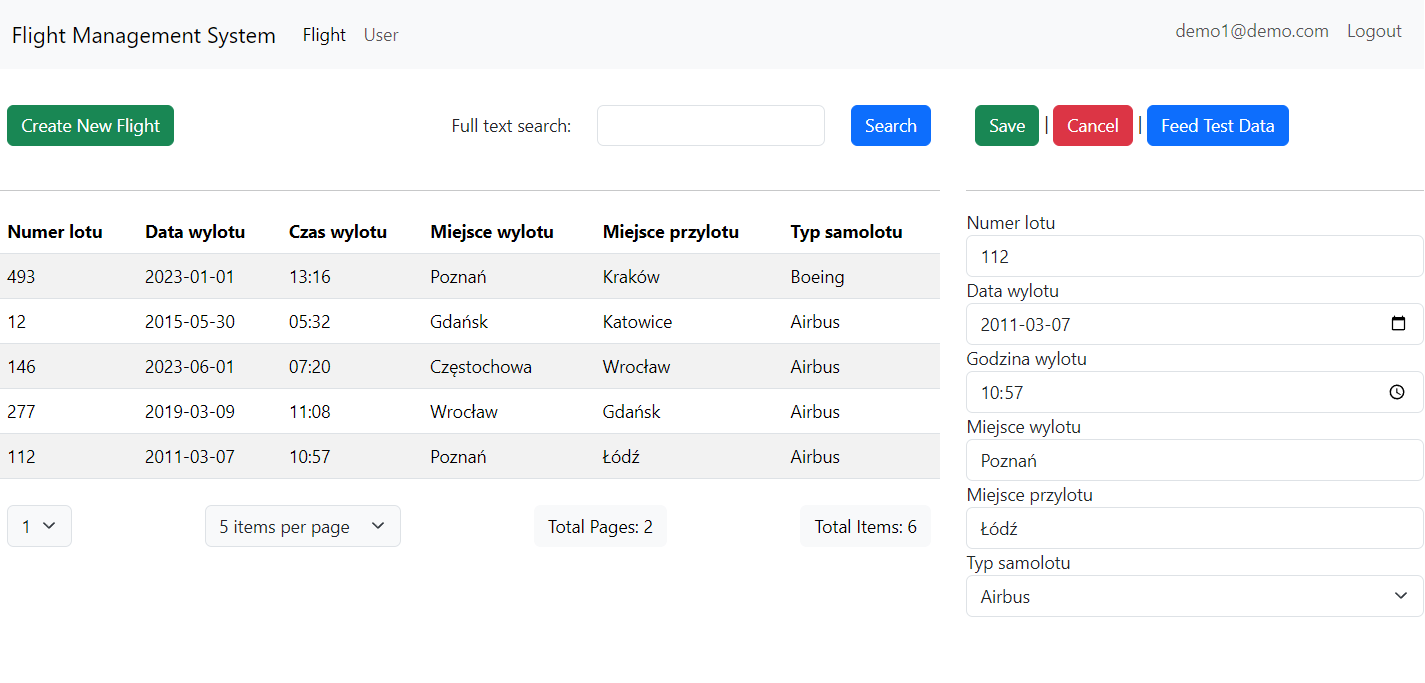
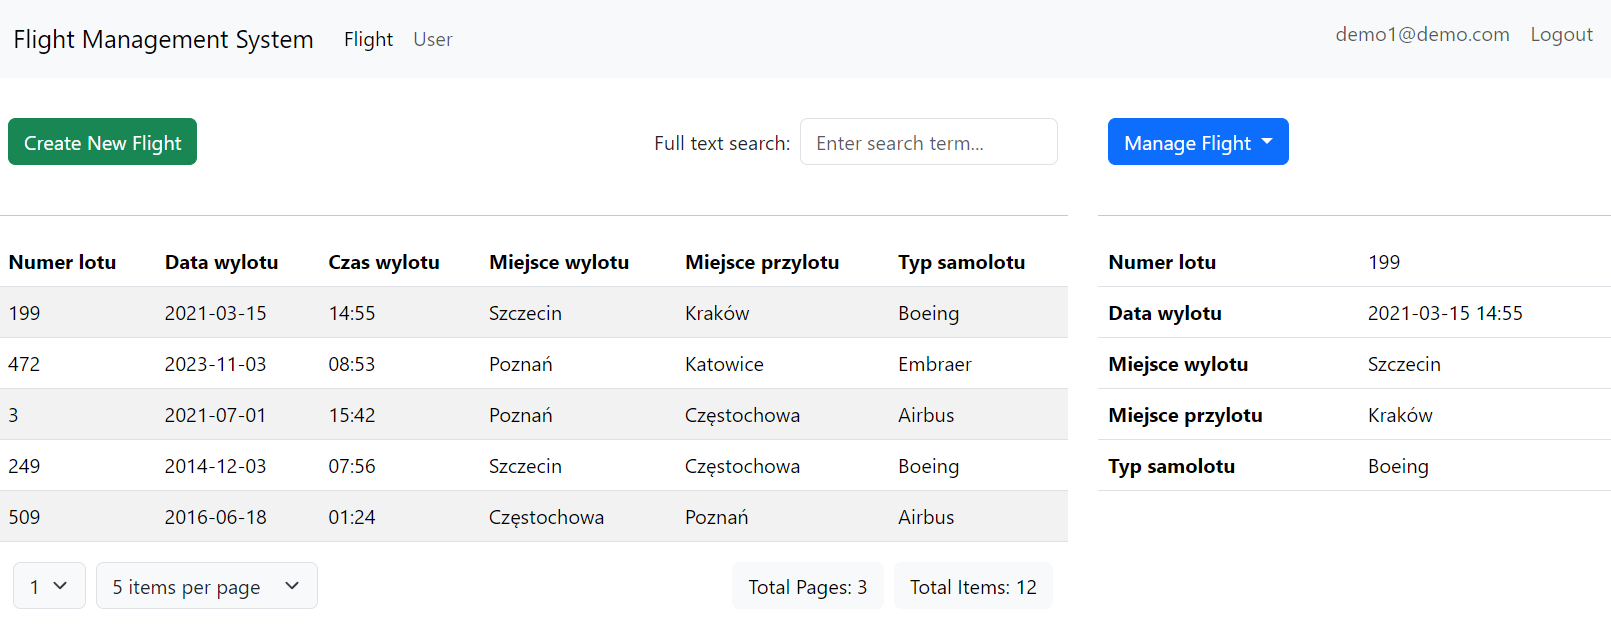
added a bit of responsiveness etc. and fixes

diff --git a/dist/flight-management-system.ui/browser/chunk-UKGET6AS.js b/dist/flight-management-system.ui/browser/chunk-UKGET6AS.js
@@ -1,0 +1,1 @@
+import{$ as k,A as U,B as H,C as G,D as w,E as N,F as A,G as gt,H as I,I as q,J as ft,K as vt,L as _t,Q,R as L,S as j,T as K,U as M,V,W as yt,Y as z,Z as Y,_ as J,a as ct,aa as X,b as lt,ba as St,c as O,ca as at,d as dt,e as pt,ea as b,f as B,fa as xt,g as ht,ga as bt,h as y,ha as Ct,i as $,ia as Ft,j as p,ja as Z,k as h,ka as tt,l as ut,la as et,m,n as g,o as x,p as c,pa as wt,q as o,qa as Et,r,s as v,t as C,u,v as d,x as l,y as _,z as R}from"./chunk-ZW7RAY6D.js";function Wt(i,n){if(i&1){let s=C();o(0,"li",7)(1,"a",11),u("click",function(){p(s);let t=d();return h(t.onDemoLogin())}),l(2,"Demo login"),r()()}}function Pt(i,n){i&1&&(o(0,"li",7)(1,"a",12),l(2,"Login"),r()())}function Nt(i,n){i&1&&(o(0,"li",7)(1,"a",13),l(2,"Sign up"),r()())}function At(i,n){if(i&1&&(o(0,"li",7)(1,"a",14),l(2),r()()),i&2){let s=d();m(2),_(s.email)}}function zt(i,n){if(i&1){let s=C();o(0,"li",7)(1,"a",15),u("click",function(){p(s);let t=d();return h(t.onLogout())}),l(2,"Logout"),r()()}}var It=(()=>{let n=class n{constructor(e,t){this.authService=e,this.router=t,this.isAuthenticated=!0,this.email=null}ngOnInit(){this.userSub=this.authService.token.subscribe(e=>{this.isAuthenticated=!!e,this.isAuthenticated&&(this.email=localStorage.getItem("email"))})}ngOnDestroy(){this.userSub.unsubscribe()}onLogout(){this.authService.logout()}onDemoLogin(){let e="demo1@demo.com",t="demo1",a="demo1@demo.com";this.authService.signup(e,t,a,"demo1@demo.com").subscribe(()=>{this.authService.login(e,a).subscribe(S=>{localStorage.setItem("authToken",S),this.router.navigate(["flight"])},S=>{})},S=>{this.authService.login(e,a).subscribe(D=>{localStorage.setItem("authToken",D),this.router.navigate(["flight"])},D=>{})})}};n.\u0275fac=function(t){return new(t||n)(g(Y),g(M))},n.\u0275cmp=y({type:n,selectors:[["app-header"]],decls:17,vars:5,consts:[[1,"navbar","navbar-expand-lg","bg-body-tertiary"],[1,"container-fluid"],["routerLink","/",1,"navbar-brand"],["type","button","data-bs-toggle","collapse","data-bs-target","#navbarSupportedContent","aria-controls","navbarSupportedContent","aria-expanded","false","aria-label","Toggle navigation",1,"navbar-toggler"],[1,"navbar-toggler-icon"],["id","navbarSupportedContent",1,"collapse","navbar-collapse"],[1,"navbar-nav","me-auto","mb-2","mb-lg-0"],[1,"nav-item"],["routerLinkActive","active","routerLink","/flight",1,"nav-link"],[1,"navbar-nav","mb-2","d-flex"],["class","nav-item",4,"ngIf"],["routerLinkActive","active",1,"nav-link",2,"cursor","pointer",3,"click"],["routerLinkActive","active","routerLink","/login",1,"nav-link"],["routerLinkActive","active","routerLink","/signup",1,"nav-link"],["routerLinkActive","active","routerLink","/account",1,"nav-link"],[1,"nav-link",2,"cursor","pointer",3,"click"]],template:function(t,a){t&1&&(o(0,"nav",0)(1,"div",1)(2,"a",2),l(3,"Flight Management System"),r(),o(4,"button",3),v(5,"span",4),r(),o(6,"div",5)(7,"ul",6)(8,"li",7)(9,"a",8),l(10,"Flight"),r()()(),o(11,"ul",9),x(12,Wt,3,0,"li",10)(13,Pt,3,0,"li",10)(14,Nt,3,0,"li",10)(15,At,3,1,"li",10)(16,zt,3,0,"li",10),r()()()()),t&2&&(m(12),c("ngIf",!a.isAuthenticated),m(),c("ngIf",!a.isAuthenticated),m(),c("ngIf",!a.isAuthenticated),m(),c("ngIf",a.isAuthenticated),m(),c("ngIf",a.isAuthenticated))},dependencies:[I,V,yt]});let i=n;return i})();var le=(()=>{let n=class n{constructor(e){this.authService=e,this.title="FlightManagementSystem.UI"}ngOnInit(){this.authService.autoLogin()}};n.\u0275fac=function(t){return new(t||n)(g(Y))},n.\u0275cmp=y({type:n,selectors:[["app-root"]],decls:3,vars:0,consts:[[1,"container"]],template:function(t,a){t&1&&(o(0,"div",0),v(1,"app-header")(2,"router-outlet"),r())},dependencies:[K,It]});let i=n;return i})(),E=function(i){return i[i.ASC=0]="ASC",i[i.DESC=1]="DESC",i}(E||{});var T=(()=>{let n=class n{notifyOther(e){e&&this.notify.next(e)}constructor(e){this.http=e,this.url="flight",this.notify=new ct(""),this.notifyObservable$=this.notify.asObservable()}getFlights(e="",t=1,a=5,f="",S=E.ASC){let D=new vt().set("SearchPhrase",e).set("PageNumber",t).set("PageSize",a).set("SortBy",f).set("SortDirection",S.toString());return this.http.get(`${L.apiUrl}/${this.url}`,{params:D})}getFlightById(e){return this.http.get(`${L.apiUrl}/${this.url}/${e}`)}updateFlight(e){return this.http.post(`${L.apiUrl}/${this.url}/${e.id}`,e)}updateFlightWithId(e,t){return this.http.post(`${L.apiUrl}/${this.url}/${e}`,t).pipe(O(this.handleError))}createFlight(e){return this.http.post(`${L.apiUrl}/${this.url}`,e,{observe:"response"}).pipe(O(this.handleError))}deleteFlight(e){return this.http.delete(`${L.apiUrl}/${this.url}/${e.id}`).pipe(O(this.handleError))}handleError(e){let t="An unknown error occurred!";if(!e.status)return lt(()=>new Error(t));switch(e.status){case 401:t="You must be logged in to do it."}return e.error&&(e.error.errors?(t="",Object.values(e.error.errors).forEach(f=>{t+=f})):t=e.error),lt(()=>new Error(t))}};n.\u0275fac=function(t){return new(t||n)(ht(_t))},n.\u0275prov=pt({token:n,factory:n.\u0275fac,providedIn:"root"});let i=n;return i})();function $t(i,n){if(i&1&&(o(0,"div",12)(1,"p"),l(2),r()()),i&2){let s=d(2);m(2),_(s.error)}}function Rt(i,n){if(i&1){let s=C();o(0,"div")(1,"div",1)(2,"div",2)(3,"div",3)(4,"button",4),l(5," Manage Flight "),v(6,"span",5),r(),o(7,"ul",6)(8,"li",7)(9,"a",8),u("click",function(){p(s);let t=d();return h(t.onEditFlight())}),l(10,"Edit Flight"),r()(),o(11,"li",7)(12,"a",8),u("click",function(){p(s);let t=d();return h(t.onDeleteFlight())}),l(13,"Delete Flight"),r()()()()()(),v(14,"hr"),x(15,$t,3,1,"div",9),o(16,"table",10)(17,"tbody")(18,"tr")(19,"th",11),l(20,"Numer lotu"),r(),o(21,"td"),l(22),r()(),o(23,"tr")(24,"th",11),l(25,"Data wylotu"),r(),o(26,"td"),l(27),N(28,"date"),r()(),o(29,"tr")(30,"th",11),l(31,"Miejsce wylotu"),r(),o(32,"td"),l(33),r()(),o(34,"tr")(35,"th",11),l(36,"Miejsce przylotu"),r(),o(37,"td"),l(38),r()(),o(39,"tr")(40,"th",11),l(41,"Typ samolotu"),r(),o(42,"td"),l(43),r()()()()()}if(i&2){let s=d();m(15),c("ngIf",s.error),m(7),_(s.flight.numerLotu),m(5),_(A(28,6,s.flight.dataWylotu,"yyyy-MM-dd HH:mm")),m(6),_(s.flight.miejsceWylotu),m(5),_(s.flight.miejscePrzylotu),m(5),_(s.flight.typSamolotu)}}var Mt=(()=>{let n=class n{constructor(e,t,a,f){this.flightService=e,this.route=t,this.router=a,this.titleService=f,this.flight=null,this.error=null}ngOnInit(){this.route.paramMap.pipe(dt(e=>(this.id=Number(e.get("id")),this.flightService.getFlightById(this.id)))).subscribe(e=>{this.flight=e,this.titleService.setTitle(`${this.flight.numerLotu}: ${this.flight.miejsceWylotu} -> ${this.flight.miejscePrzylotu}`)})}fetchFlight(){this.flightService.getFlightById(this.id).subscribe(e=>this.flight=e)}onEditFlight(){this.router.navigate(["edit"],{relativeTo:this.route})}onDeleteFlight(){this.flightService.deleteFlight(this.flight).subscribe(()=>{this.flightService.notifyOther({refresh:!0}),this.router.navigate(["/flight"])},e=>{this.error=e.message})}};n.\u0275fac=function(t){return new(t||n)(g(T),g(j),g(M),g(Q))},n.\u0275cmp=y({type:n,selectors:[["app-flight-detail"]],decls:1,vars:1,consts:[[4,"ngIf"],[1,"d-flex","justify-content-between","p-2"],[1,"col-xs-12"],[1,"btn-group","mb-3"],["type","button","data-bs-toggle","dropdown",1,"btn","btn-primary","dropdown-toggle"],[1,"caret"],[1,"dropdown-menu"],[1,"dropdown-item"],[2,"cursor","pointer",3,"click"],["class","alert alert-danger",4,"ngIf"],[1,"table"],["scope","row"],[1,"alert","alert-danger"]],template:function(t,a){t&1&&x(0,Rt,44,9,"div",0),t&2&&c("ngIf",a.flight)},dependencies:[I,q]});let i=n;return i})();var st=function(i){return i[i.Embraer=0]="Embraer",i[i.Boeing=1]="Boeing",i[i.Airbus=2]="Airbus",i}(st||{}),rt=class{constructor(n,s,e,t,a){this.numerLotu=n,this.dataWylotu=s,this.miejsceWylotu=e,this.miejscePrzylotu=t,this.typSamolotu=a}};function Ht(i,n){i&1&&(o(0,"span"),l(1,"Save"),r())}function Gt(i,n){i&1&&(o(0,"span"),l(1,"Create"),r())}function qt(i,n){if(i&1&&(o(0,"div",26)(1,"p"),l(2),r()()),i&2){let s=d(2);m(2),_(s.error)}}function Qt(i,n){if(i&1){let s=C();o(0,"div")(1,"div",1)(2,"div",2)(3,"form",3),u("ngSubmit",function(){p(s);let t=d();return h(t.onSubmit())}),o(4,"div",4)(5,"div",5)(6,"button",6),x(7,Ht,2,0,"span",0)(8,Gt,2,0,"span",0),r(),l(9," | "),o(10,"button",7),u("click",function(){p(s);let t=d();return h(t.onCancel())}),l(11," Cancel "),r(),l(12," | "),o(13,"button",8),u("click",function(){p(s);let t=d();return h(t.onFeedTestData())}),l(14," Feed Test Data "),r()()(),v(15,"hr"),o(16,"div",1)(17,"div",2),x(18,qt,3,1,"div",9),o(19,"div",10)(20,"label",11),l(21,"Numer lotu"),r(),v(22,"input",12),r()()(),o(23,"div",1)(24,"div",2)(25,"div",10)(26,"label",13),l(27,"Data wylotu"),r(),v(28,"input",14),r(),o(29,"div",10)(30,"label",15),l(31,"Godzina wylotu"),r(),v(32,"input",16),r()()(),o(33,"div",1)(34,"div",2)(35,"div",10)(36,"label",17),l(37,"Miejsce wylotu"),r(),v(38,"input",18),r()()(),o(39,"div",1)(40,"div",2)(41,"div",10)(42,"label",19),l(43,"Miejsce przylotu"),r(),v(44,"input",20),r()()(),o(45,"div",1)(46,"div",2)(47,"div",10)(48,"label",21),l(49,"Typ samolotu"),r(),o(50,"select",22)(51,"option",23),l(52,"Embraer"),r(),o(53,"option",24),l(54,"Boeing"),r(),o(55,"option",25),l(56,"Airbus"),r()()()()()()()()()}if(i&2){let s=d();m(3),c("formGroup",s.flightForm),m(3),c("disabled",!s.flightForm.valid),m(),c("ngIf",s.editMode),m(),c("ngIf",!s.editMode),m(10),c("ngIf",s.error)}}var mt=(()=>{let n=class n{constructor(e,t,a,f){this.route=e,this.flightService=t,this.router=a,this.titleService=f,this.flight=null,this.editMode=!1,this.error=null}ngOnInit(){this.route.params.subscribe(e=>{this.id=+e.id,this.editMode=e.id!=null,this.initForm(),this.editMode?this.flightService.getFlightById(this.id).subscribe(t=>{this.flight=t,this.titleService.setTitle(`${this.flight.numerLotu}: ${this.flight.miejsceWylotu} -> ${this.flight.miejscePrzylotu}`),this.initForm()}):this.titleService.setTitle("New Flight")})}onSubmit(){let e=this.flightForm.value.dataWylotu,t=this.flightForm.value.czasWylotu,a=new rt(this.flightForm.value.numerLotu,new Date(`${e}T${t}`),this.flightForm.value.miejsceWylotu,this.flightForm.value.miejscePrzylotu,this.flightForm.value.typSamolotu);this.editMode?this.flightService.updateFlightWithId(this.id,a).subscribe(()=>{this.flightService.notifyOther({refresh:!0}),this.onCancel()},f=>{this.error=f.message}):this.flightService.createFlight(a).subscribe(f=>{let S=f.headers.get("location");this.router.navigate([S]),this.flightService.notifyOther({refresh:!0})},f=>{this.error=f.message})}refreshGridInAnotherComponent(){this.flightService.notifyOther({refresh:!0})}onCancel(){this.router.navigate(["../"],{relativeTo:this.route})}getDateFromDate(e){return e.toISOString().slice(0,10)}getTimeFromDate(e){return e.toTimeString().slice(0,5)}initForm(){let e=null,t=this.getDateFromDate(new Date),a=this.getTimeFromDate(new Date),f="",S="",D=null;this.editMode&&(this.fetchFlight(),this.flight&&(e=this.flight.numerLotu,t=this.getDateFromDate(new Date(this.flight.dataWylotu)),a=this.getTimeFromDate(new Date(this.flight.dataWylotu)),f=this.flight.miejsceWylotu,S=this.flight.miejscePrzylotu,D=this.flight.typSamolotu)),this.flightForm=new at({numerLotu:new b(e,k.required),dataWylotu:new b(t,k.required),czasWylotu:new b(a,k.required),miejsceWylotu:new b(f,k.required),miejscePrzylotu:new b(S,k.required),typSamolotu:new b(D,k.required)})}fetchFlight(){this.flightService.getFlightById(this.id).subscribe(e=>this.flight=e)}onFeedTestData(){this.flightForm=new at({numerLotu:new b(Math.floor(Math.random()*10*Math.random()*100)),dataWylotu:new b(this.getDateFromDate(new Date(2010+Math.floor(Math.random()*14),Math.floor(Math.random()*12),Math.floor(Math.random()*30)))),czasWylotu:new b(this.getTimeFromDate(new Date(2024,1,1,Math.floor(Math.random()*24),Math.floor(Math.random()*60)))),miejsceWylotu:new b(ot[Math.floor(Math.random()*ot.length)]),miejscePrzylotu:new b(ot[Math.floor(Math.random()*ot.length)]),typSamolotu:new b(st[Math.floor(Math.random()*3)])})}};n.\u0275fac=function(t){return new(t||n)(g(j),g(T),g(M),g(Q))},n.\u0275cmp=y({type:n,selectors:[["app-flight-edit"]],decls:1,vars:1,consts:[[4,"ngIf"],[1,"row"],[1,"col-xs-12"],[3,"ngSubmit","formGroup"],[1,"row","d-flex","justify-content-between","p-2"],[1,"col-xs-12","mb-3"],["type","submit",1,"btn","btn-success",3,"disabled"],["type","button",1,"btn","btn-danger",3,"click"],["type","button",1,"btn","btn-primary",3,"click"],["class","alert alert-danger",4,"ngIf"],[1,"form-group"],["for","numerLotu"],["type","text","id","numerLotu","formControlName","numerLotu",1,"form-control"],["for","dataWylotu"],["type","date","id","dataWylotu","formControlName","dataWylotu",1,"form-control"],["for","czasWylotu"],["type","time","id","czasWylotu","formControlName","czasWylotu",1,"form-control"],["for","miejsceWylotu"],["type","text","id","miejsceWylotu","formControlName","miejsceWylotu",1,"form-control"],["for","miejscePrzylotu"],["type","text","id","miejscePrzylotu","formControlName","miejscePrzylotu",1,"form-control"],["for","typSamolotu"],["id","typSamolotu","formControlName","typSamolotu",1,"form-select"],["selected","","value","Embraer"],["value","Boeing"],["value","Airbus"],[1,"alert","alert-danger"]],template:function(t,a){t&1&&x(0,Qt,57,5,"div",0),t&2&&c("ngIf",a.flightForm)},dependencies:[bt,tt,et,J,Z,X,St,Ct,Ft,I]});let i=n;return i})(),ot=["Warszawa","Krak\xF3w","Gda\u0144sk","Wroc\u0142aw","Pozna\u0144","Szczecin","\u0141\xF3d\u017A","Katowice","Gdynia","Cz\u0119stochowa"];var Tt=(()=>{let n=class n{};n.\u0275fac=function(t){return new(t||n)},n.\u0275cmp=y({type:n,selectors:[["app-flight-start"]],decls:0,vars:0,template:function(t,a){}});let i=n;return i})();var Kt=["app-flight-item",""],P=i=>[i],Dt=(()=>{let n=class n{constructor(e){this.flightService=e,this.flightToUpdate=new ut}editFlight(e){this.flightService.getFlightById(this.index).subscribe(t=>this.flightToUpdate.emit(t))}};n.\u0275fac=function(t){return new(t||n)(g(T))},n.\u0275cmp=y({type:n,selectors:[["","app-flight-item",""]],inputs:{flight:"flight",index:"index"},outputs:{flightToUpdate:"flightToUpdate"},attrs:Kt,decls:14,vars:30,consts:[[3,"routerLink"]],template:function(t,a){t&1&&(o(0,"td",0),l(1),r(),o(2,"td",0),l(3),N(4,"date"),r(),o(5,"td",0),l(6),N(7,"date"),r(),o(8,"td",0),l(9),r(),o(10,"td",0),l(11),r(),o(12,"td",0),l(13),r()),t&2&&(c("routerLink",w(18,P,a.flight.id)),m(),_(a.flight.numerLotu),m(),c("routerLink",w(20,P,a.flight.id)),m(),_(A(4,12,a.flight.dataWylotu,"yyyy-MM-dd")),m(2),c("routerLink",w(22,P,a.flight.id)),m(),_(A(7,15,a.flight.dataWylotu,"HH:mm")),m(2),c("routerLink",w(24,P,a.flight.id)),m(),_(a.flight.miejsceWylotu),m(),c("routerLink",w(26,P,a.flight.id)),m(),_(a.flight.miejscePrzylotu),m(),c("routerLink",w(28,P,a.flight.id)),m(),_(a.flight.typSamolotu))},dependencies:[V,q]});let i=n;return i})();var Jt=i=>[i];function Xt(i,n){i&1&&(o(0,"div",10)(1,"p"),l(2,"Loading..."),r()())}function Zt(i,n){if(i&1){let s=C();o(0,"tr",16),u("flightToUpdate",function(t){p(s);let a=d(2);return h(a.editFlight(t))}),r()}if(i&2){let s=n.$implicit;c("flight",s)("index",s.id)("routerLink",w(3,Jt,s.id))}}function te(i,n){i&1&&(o(0,"tr")(1,"td",17),l(2,"No flights found"),r()())}function ee(i,n){if(i&1){let s=C();o(0,"div",11)(1,"table",12)(2,"thead")(3,"tr")(4,"th",13),u("click",function(){p(s);let t=d();return h(t.Sort("NumerLotu"))}),l(5,"Numer lotu"),r(),o(6,"th",13),u("click",function(){p(s);let t=d();return h(t.Sort("DataWylotu"))}),l(7,"Data wylotu"),r(),o(8,"th",13),u("click",function(){p(s);let t=d();return h(t.Sort("DataWylotu"))}),l(9,"Czas wylotu"),r(),o(10,"th",13),u("click",function(){p(s);let t=d();return h(t.Sort("MiejsceWylotu"))}),l(11,"Miejsce wylotu"),r(),o(12,"th",13),u("click",function(){p(s);let t=d();return h(t.Sort("MiejscePrzylotu"))}),l(13,"Miejsce przylotu"),r(),o(14,"th",13),u("click",function(){p(s);let t=d();return h(t.Sort("TypSamolotu"))}),l(15,"Typ samolotu"),r()()(),o(16,"tbody"),x(17,Zt,1,5,"tr",14)(18,te,3,0,"tr",15),r()()()}if(i&2){let s=d();m(17),c("ngForOf",s.flights),m(),c("ngIf",s.flights.length==0)}}function ie(i,n){if(i&1&&(o(0,"option",25),l(1),r()),i&2){let s=n.$implicit;c("ngValue",s),m(),R(" ",s," ")}}function ne(i,n){if(i&1){let s=C();o(0,"div",18)(1,"div",19)(2,"div",20)(3,"div",21)(4,"select",22),G("ngModelChange",function(t){p(s);let a=d();return H(a.PageNumber,t)||(a.PageNumber=t),h(t)}),u("change",function(){p(s);let t=d();return h(t.onQueryChange())}),x(5,ie,2,2,"option",23),r()(),o(6,"div",21)(7,"select",24),G("ngModelChange",function(t){p(s);let a=d();return H(a.PageSize,t)||(a.PageSize=t),h(t)}),u("change",function(){p(s);let t=d();return h(t.onQueryChange())}),o(8,"option",25),l(9,"5 items per page"),r(),o(10,"option",25),l(11,"10 items per page"),r(),o(12,"option",25),l(13,"15 items per page"),r()()()(),o(14,"div",20)(15,"div",21)(16,"button",26),l(17),r()(),o(18,"div",27)(19,"button",26),l(20),r()()()()()}if(i&2){let s=d();m(4),U("ngModel",s.PageNumber),m(),c("ngForOf",s.totalPagesArray),m(2),U("ngModel",s.PageSize),m(),c("ngValue",5),m(2),c("ngValue",10),m(2),c("ngValue",15),m(5),R(" Total Pages: ",s.FlightResponse.totalPages," "),m(3),R(" Total Items: ",s.FlightResponse.totalItemsCount," ")}}var Lt=(()=>{let n=class n{constructor(e,t,a){this.flightService=e,this.router=t,this.route=a,this.flights=[],this.isLoading=!1,this.SearchPhrase="",this.PageNumber=1,this.PageSize=5,this.SortBy="Id",this.SortDirection=E.DESC,this.totalPagesArray=[]}ngOnInit(){this.isLoading=!0,this.fetchData(),this.flightService.notifyObservable$.subscribe(e=>{e.refresh&&this.fetchData()})}fetchData(){this.flightService.getFlights(this.SearchPhrase,this.PageNumber,this.PageSize,this.SortBy,this.SortDirection).subscribe(e=>{this.flights=e.items,this.FlightResponse=e,this.isLoading=!1,this.totalPagesArray=[];for(let t=1;t<=this.FlightResponse.totalPages;t++)this.totalPagesArray.push(t)})}initSearch(){this.fetchData()}Sort(e){this.SortBy==e?this.SortDirection==E.ASC?this.SortDirection=E.DESC:this.SortDirection=E.ASC:(this.SortBy=e,this.SortDirection=E.ASC),this.onQueryChange()}initNewFlight(){this.router.navigate(["new"],{relativeTo:this.route})}onQueryChange(){this.fetchData()}};n.\u0275fac=function(t){return new(t||n)(g(T),g(M),g(j))},n.\u0275cmp=y({type:n,selectors:[["app-flight-list"]],inputs:{flights:"flights"},decls:13,vars:4,consts:[["style","text-align: center",4,"ngIf"],[1,"container","justify-content-between","p-2"],[1,"row","mb-3"],[1,"col-12","col-md-auto","mb-3","mb-md-0"],[1,"btn","btn-success","w-100","w-md-auto",3,"click"],[1,"col-12","col-md","d-flex","justify-content-end","align-items-center"],["for","table-complete-search",1,"me-2","mb-0"],["id","table-complete-search","type","text","name","searchTerm","placeholder","Enter search term...",1,"form-control","w-auto",3,"ngModelChange","input","ngModel"],["class","table-responsive",4,"ngIf"],["class","container mb-3",4,"ngIf"],[2,"text-align","center"],[1,"table-responsive"],[1,"table","table-striped"],[3,"click"],["app-flight-item","",3,"flight","index","routerLink","flightToUpdate",4,"ngFor","ngForOf"],[4,"ngIf"],["app-flight-item","",3,"flightToUpdate","flight","index","routerLink"],["colspan","6",2,"text-align","center"],[1,"container","mb-3"],[1,"d-flex","justify-content-between","align-items-center","flex-wrap"],[1,"d-flex","flex-wrap"],[1,"me-2","mb-2"],["name","PageNumber",1,"form-select","bg-light",3,"ngModelChange","change","ngModel"],[3,"ngValue",4,"ngFor","ngForOf"],["name","PageSize",1,"form-select","bg-light",3,"ngModelChange","change","ngModel"],[3,"ngValue"],[1,"btn","btn-light","w-100"],[1,"mb-2"]],template:function(t,a){t&1&&(x(0,Xt,3,0,"div",0),o(1,"div",1)(2,"div",2)(3,"div",3)(4,"button",4),u("click",function(){return a.initNewFlight()}),l(5," Create New Flight "),r()(),o(6,"div",5)(7,"label",6),l(8,"Full text search:"),r(),o(9,"input",7),G("ngModelChange",function(S){return H(a.SearchPhrase,S)||(a.SearchPhrase=S),S}),u("input",function(){return a.onQueryChange()}),r()()()(),v(10,"hr"),x(11,ee,19,2,"div",8)(12,ne,21,8,"div",9)),t&2&&(c("ngIf",a.isLoading),m(9),U("ngModel",a.SearchPhrase),m(2),c("ngIf",!a.isLoading),m(),c("ngIf",a.FlightResponse))},dependencies:[V,tt,et,J,Z,X,xt,gt,I,Dt]});let i=n;return i})();var kt=(()=>{let n=class n{constructor(){}};n.\u0275fac=function(t){return new(t||n)},n.\u0275cmp=y({type:n,selectors:[["app-flight"]],decls:7,vars:0,consts:[[1,"row"],[1,"col-lg-8"],[1,"col-lg-4"]],template:function(t,a){t&1&&(o(0,"div",0)(1,"div",1),v(2,"br")(3,"app-flight-list"),r(),o(4,"div",2),v(5,"br")(6,"router-outlet"),r()())},dependencies:[K,Lt]});let i=n;return i})();var oe=[{path:"",title:"flight",component:kt,children:[{path:"",component:Tt},{path:"new",component:mt},{path:":id",component:Mt},{path:":id/edit",component:mt}]}],jt=(()=>{let n=class n{};n.\u0275fac=function(t){return new(t||n)},n.\u0275mod=$({type:n}),n.\u0275inj=B({imports:[z.forChild(oe),z]});let i=n;return i})();var Qe=(()=>{let n=class n{};n.\u0275fac=function(t){return new(t||n)},n.\u0275mod=$({type:n}),n.\u0275inj=B({imports:[z,Et,wt,jt,ft]});let i=n;return i})();export{le as a,Qe as b};

diff --git a/dist/flight-management-system.ui/browser/index.html b/dist/flight-management-system.ui/browser/index.html
@@ -7,8 +7,8 @@
   <meta name="viewport" content="width=device-width, initial-scale=1">
   <link rel="icon" type="image/x-icon" href="favicon.ico">
 <style>@charset "UTF-8";:root{--bs-blue:#0d6efd;--bs-indigo:#6610f2;--bs-purple:#6f42c1;--bs-pink:#d63384;--bs-red:#dc3545;--bs-orange:#fd7e14;--bs-yellow:#ffc107;--bs-green:#198754;--bs-teal:#20c997;--bs-cyan:#0dcaf0;--bs-black:#000;--bs-white:#fff;--bs-gray:#6c757d;--bs-gray-dark:#343a40;--bs-gray-100:#f8f9fa;--bs-gray-200:#e9ecef;--bs-gray-300:#dee2e6;--bs-gray-400:#ced4da;--bs-gray-500:#adb5bd;--bs-gray-600:#6c757d;--bs-gray-700:#495057;--bs-gray-800:#343a40;--bs-gray-900:#212529;--bs-primary:#0d6efd;--bs-secondary:#6c757d;--bs-success:#198754;--bs-info:#0dcaf0;--bs-warning:#ffc107;--bs-danger:#dc3545;--bs-light:#f8f9fa;--bs-dark:#212529;--bs-primary-rgb:13,110,253;--bs-secondary-rgb:108,117,125;--bs-success-rgb:25,135,84;--bs-info-rgb:13,202,240;--bs-warning-rgb:255,193,7;--bs-danger-rgb:220,53,69;--bs-light-rgb:248,249,250;--bs-dark-rgb:33,37,41;--bs-primary-text-emphasis:#052c65;--bs-secondary-text-emphasis:#2b2f32;--bs-success-text-emphasis:#0a3622;--bs-info-text-emphasis:#055160;--bs-warning-text-emphasis:#664d03;--bs-danger-text-emphasis:#58151c;--bs-light-text-emphasis:#495057;--bs-dark-text-emphasis:#495057;--bs-primary-bg-subtle:#cfe2ff;--bs-secondary-bg-subtle:#e2e3e5;--bs-success-bg-subtle:#d1e7dd;--bs-info-bg-subtle:#cff4fc;--bs-warning-bg-subtle:#fff3cd;--bs-danger-bg-subtle:#f8d7da;--bs-light-bg-subtle:#fcfcfd;--bs-dark-bg-subtle:#ced4da;--bs-primary-border-subtle:#9ec5fe;--bs-secondary-border-subtle:#c4c8cb;--bs-success-border-subtle:#a3cfbb;--bs-info-border-subtle:#9eeaf9;--bs-warning-border-subtle:#ffe69c;--bs-danger-border-subtle:#f1aeb5;--bs-light-border-subtle:#e9ecef;--bs-dark-border-subtle:#adb5bd;--bs-white-rgb:255,255,255;--bs-black-rgb:0,0,0;--bs-font-sans-serif:system-ui,-apple-system,"Segoe UI",Roboto,"Helvetica Neue","Noto Sans","Liberation Sans",Arial,sans-serif,"Apple Color Emoji","Segoe UI Emoji","Segoe UI Symbol","Noto Color Emoji";--bs-font-monospace:SFMono-Regular,Menlo,Monaco,Consolas,"Liberation Mono","Courier New",monospace;--bs-gradient:linear-gradient(180deg, rgba(255, 255, 255, .15), rgba(255, 255, 255, 0));--bs-body-font-family:var(--bs-font-sans-serif);--bs-body-font-size:1rem;--bs-body-font-weight:400;--bs-body-line-height:1.5;--bs-body-color:#212529;--bs-body-color-rgb:33,37,41;--bs-body-bg:#fff;--bs-body-bg-rgb:255,255,255;--bs-emphasis-color:#000;--bs-emphasis-color-rgb:0,0,0;--bs-secondary-color:rgba(33, 37, 41, .75);--bs-secondary-color-rgb:33,37,41;--bs-secondary-bg:#e9ecef;--bs-secondary-bg-rgb:233,236,239;--bs-tertiary-color:rgba(33, 37, 41, .5);--bs-tertiary-color-rgb:33,37,41;--bs-tertiary-bg:#f8f9fa;--bs-tertiary-bg-rgb:248,249,250;--bs-heading-color:inherit;--bs-link-color:#0d6efd;--bs-link-color-rgb:13,110,253;--bs-link-decoration:underline;--bs-link-hover-color:#0a58ca;--bs-link-hover-color-rgb:10,88,202;--bs-code-color:#d63384;--bs-highlight-color:#212529;--bs-highlight-bg:#fff3cd;--bs-border-width:1px;--bs-border-style:solid;--bs-border-color:#dee2e6;--bs-border-color-translucent:rgba(0, 0, 0, .175);--bs-border-radius:.375rem;--bs-border-radius-sm:.25rem;--bs-border-radius-lg:.5rem;--bs-border-radius-xl:1rem;--bs-border-radius-xxl:2rem;--bs-border-radius-2xl:var(--bs-border-radius-xxl);--bs-border-radius-pill:50rem;--bs-box-shadow:0 .5rem 1rem rgba(0, 0, 0, .15);--bs-box-shadow-sm:0 .125rem .25rem rgba(0, 0, 0, .075);--bs-box-shadow-lg:0 1rem 3rem rgba(0, 0, 0, .175);--bs-box-shadow-inset:inset 0 1px 2px rgba(0, 0, 0, .075);--bs-focus-ring-width:.25rem;--bs-focus-ring-opacity:.25;--bs-focus-ring-color:rgba(13, 110, 253, .25);--bs-form-valid-color:#198754;--bs-form-valid-border-color:#198754;--bs-form-invalid-color:#dc3545;--bs-form-invalid-border-color:#dc3545}*,:after,:before{box-sizing:border-box}@media (prefers-reduced-motion:no-preference){:root{scroll-behavior:smooth}}body{margin:0;font-family:var(--bs-body-font-family);font-size:var(--bs-body-font-size);font-weight:var(--bs-body-font-weight);line-height:var(--bs-body-line-height);color:var(--bs-body-color);text-align:var(--bs-body-text-align);background-color:var(--bs-body-bg);-webkit-text-size-adjust:100%;-webkit-tap-highlight-color:transparent}:root{--bs-breakpoint-xs:0;--bs-breakpoint-sm:576px;--bs-breakpoint-md:768px;--bs-breakpoint-lg:992px;--bs-breakpoint-xl:1200px;--bs-breakpoint-xxl:1400px}
-</style><link rel="stylesheet" href="styles-DZ6UBGXD.css" media="print" onload="this.media='all'"><noscript><link rel="stylesheet" href="styles-DZ6UBGXD.css"></noscript><link rel="modulepreload" href="chunk-244SFHSR.js"><link rel="modulepreload" href="chunk-UMPMVNXD.js"><link rel="modulepreload" href="chunk-ZW7RAY6D.js"></head>
+</style><link rel="stylesheet" href="styles-DZ6UBGXD.css" media="print" onload="this.media='all'"><noscript><link rel="stylesheet" href="styles-DZ6UBGXD.css"></noscript><link rel="modulepreload" href="chunk-244SFHSR.js"><link rel="modulepreload" href="chunk-UKGET6AS.js"><link rel="modulepreload" href="chunk-ZW7RAY6D.js"></head>
 <body>
   <app-root></app-root>
-<script src="polyfills-S3BTP7ME.js" type="module"></script><script src="scripts-EEEIPNC3.js" defer></script><script src="main-UGZROAAM.js" type="module"></script></body>
+<script src="polyfills-S3BTP7ME.js" type="module"></script><script src="scripts-EEEIPNC3.js" defer></script><script src="main-45JFWHVL.js" type="module"></script></body>
 </html>

diff --git a/src/app/flight/flight-list/flight-list.component.html b/src/app/flight/flight-list/flight-list.component.html
@@ -1,33 +1,31 @@
 <div *ngIf="isLoading" style="text-align: center">
   <p>Loading...</p>
 </div>
-<div class="d-flex justify-content-between p-2">
-  <div class="col-xs-3 col-sm-auto">
-    <button class="btn btn-success" (click)="initNewFlight()">
-      Create New Flight
-    </button>
-  </div>
-  <div class="mb-3 row justify-content-md-evenly">
-    <label for="table-complete-search" class="col-xs-3 col-sm-auto col-form-label"
-      >Full text search:</label
-    >
-    <div class="col-xs-3 col-sm-auto">
+
+<div class="container justify-content-between p-2">
+  <div class="row mb-3">
+    <div class="col-12 col-md-auto mb-3 mb-md-0">
+      <button class="btn btn-success w-100 w-md-auto" (click)="initNewFlight()">
+        Create New Flight
+      </button>
+    </div>
+    <div class="col-12 col-md d-flex justify-content-end align-items-center">
+      <label for="table-complete-search" class="me-2 mb-0">Full text search:</label>
       <input
         id="table-complete-search"
         type="text"
-        class="form-control"
+        class="form-control w-auto"
         name="searchTerm"
         [(ngModel)]="SearchPhrase"
         (input)="onQueryChange()"
+        placeholder="Enter search term..."
       />
-    </div>
-    <div class="col-xs-3 col-sm-auto">
-      <button class="btn btn-primary" (click)="initSearch()">Search</button>
     </div>
   </div>
 </div>
+
 <hr />
-<div class="table" *ngIf="!isLoading">
+<div class="table-responsive" *ngIf="!isLoading">
   <table class="table table-striped">
     <thead>
       <tr>
@@ -54,35 +52,49 @@
     </tbody>
   </table>
 </div>
-<div class="d-flex justify-content-between p-2" *ngIf="FlightResponse">
-  <select
-    class="form-select bg-light"
-    style="width: auto"
-    name="PageNumber"
-    [(ngModel)]="PageNumber"
-    (change)="onQueryChange()"
-  >
-    <option *ngFor="let page of totalPagesArray" [ngValue]="page">
-      {{ page }}
-    </option>
-  </select>
 
-  <select
-    class="form-select bg-light"
-    style="width: auto"
-    name="PageSize"
-    [(ngModel)]="PageSize"
-    (change)="onQueryChange()"
-  >
-    <option [ngValue]="5">5 items per page</option>
-    <option [ngValue]="10">10 items per page</option>
-    <option [ngValue]="15">15 items per page</option>
-  </select>
+<div class="container mb-3" *ngIf="FlightResponse">
+  <div class="d-flex justify-content-between align-items-center flex-wrap">
+    <div class="d-flex flex-wrap">
+      <div class="me-2 mb-2">
+        <select
+          class="form-select bg-light"
+          name="PageNumber"
+          [(ngModel)]="PageNumber"
+          (change)="onQueryChange()"
+        >
+          <option *ngFor="let page of totalPagesArray" [ngValue]="page">
+            {{ page }}
+          </option>
+        </select>
+      </div>
 
-  <button class="btn btn-light">
-    Total Pages: {{ FlightResponse.totalPages }}
-  </button>
-  <button class="btn btn-light">
-    Total Items: {{ FlightResponse.totalItemsCount }}
-  </button>
+      <div class="me-2 mb-2">
+        <select
+          class="form-select bg-light"
+          name="PageSize"
+          [(ngModel)]="PageSize"
+          (change)="onQueryChange()"
+        >
+          <option [ngValue]="5">5 items per page</option>
+          <option [ngValue]="10">10 items per page</option>
+          <option [ngValue]="15">15 items per page</option>
+        </select>
+      </div>
+    </div>
+
+    <div class="d-flex flex-wrap">
+      <div class="me-2 mb-2">
+        <button class="btn btn-light w-100">
+          Total Pages: {{ FlightResponse.totalPages }}
+        </button>
+      </div>
+
+      <div class="mb-2">
+        <button class="btn btn-light w-100">
+          Total Items: {{ FlightResponse.totalItemsCount }}
+        </button>
+      </div>
+    </div>
+  </div>
 </div>

diff --git a/dist/flight-management-system.ui/browser/main-45JFWHVL.js b/dist/flight-management-system.ui/browser/main-45JFWHVL.js
@@ -1,0 +1,1 @@
+import{a as x}from"./chunk-244SFHSR.js";import{a as w,b as F}from"./chunk-UKGET6AS.js";import{J as u,M as h,N as g,O as C,P as M,Q as y,X as v,Y as p,e as s,f as i,h as l,i as n,q as f,r as c,x as d}from"./chunk-ZW7RAY6D.js";var N=(()=>{let t=class t{};t.\u0275fac=function(e){return new(e||t)},t.\u0275cmp=l({type:t,selectors:[["app-page-not-found"]],decls:2,vars:0,template:function(e,m){e&1&&(f(0,"p"),d(1,"page-not-found works!"),c())}});let o=t;return o})();var I=[{path:"",redirectTo:"/flight",pathMatch:"full"},{path:"",loadChildren:()=>import("./chunk-TQARRAWO.js").then(o=>o.AuthModule)},{path:"flight",loadChildren:()=>import("./chunk-PXR43DOS.js").then(o=>o.FlightModule)},{path:"**",component:N}],T=(()=>{let t=class t{};t.\u0275fac=function(e){return new(e||t)},t.\u0275mod=n({type:t}),t.\u0275inj=i({imports:[u,p.forRoot(I,{preloadingStrategy:v}),p]});let o=t;return o})();var b=(()=>{let t=class t{intercept(r,e){let m=localStorage.getItem("authToken");return m&&(r=r.clone({setHeaders:{Authorization:`Bearer ${m}`}})),e.handle(r)}};t.\u0275fac=function(e){return new(e||t)},t.\u0275prov=s({token:t,factory:t.\u0275fac});let o=t;return o})();var j=(()=>{let t=class t{};t.\u0275fac=function(e){return new(e||t)},t.\u0275mod=n({type:t,bootstrap:[w]}),t.\u0275inj=i({providers:[{provide:h,useClass:b,multi:!0},y],imports:[M,g,T,x,F]});let o=t;return o})();C().bootstrapModule(j).catch(o=>console.error(o));

diff --git a/dist/flight-management-system.ui/browser/chunk-PXR43DOS.js b/dist/flight-management-system.ui/browser/chunk-PXR43DOS.js
@@ -1,0 +1,1 @@
+import{b as a}from"./chunk-UKGET6AS.js";import"./chunk-ZW7RAY6D.js";export{a as FlightModule};
